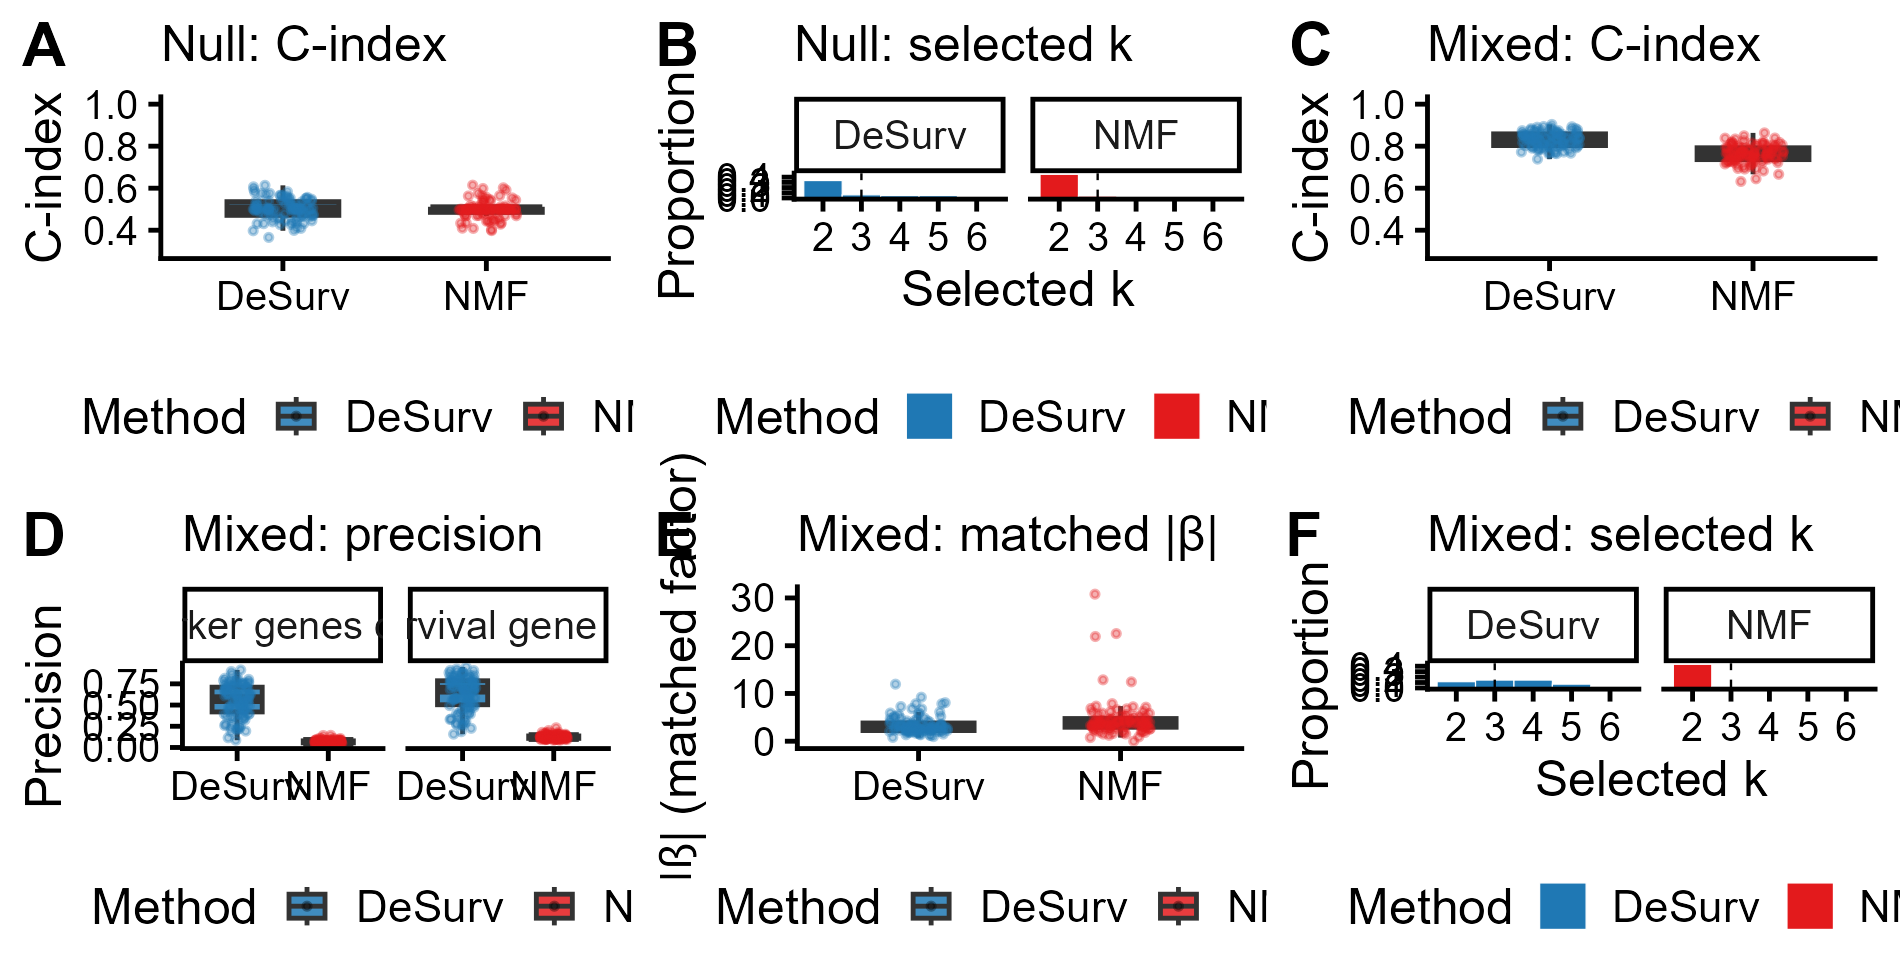
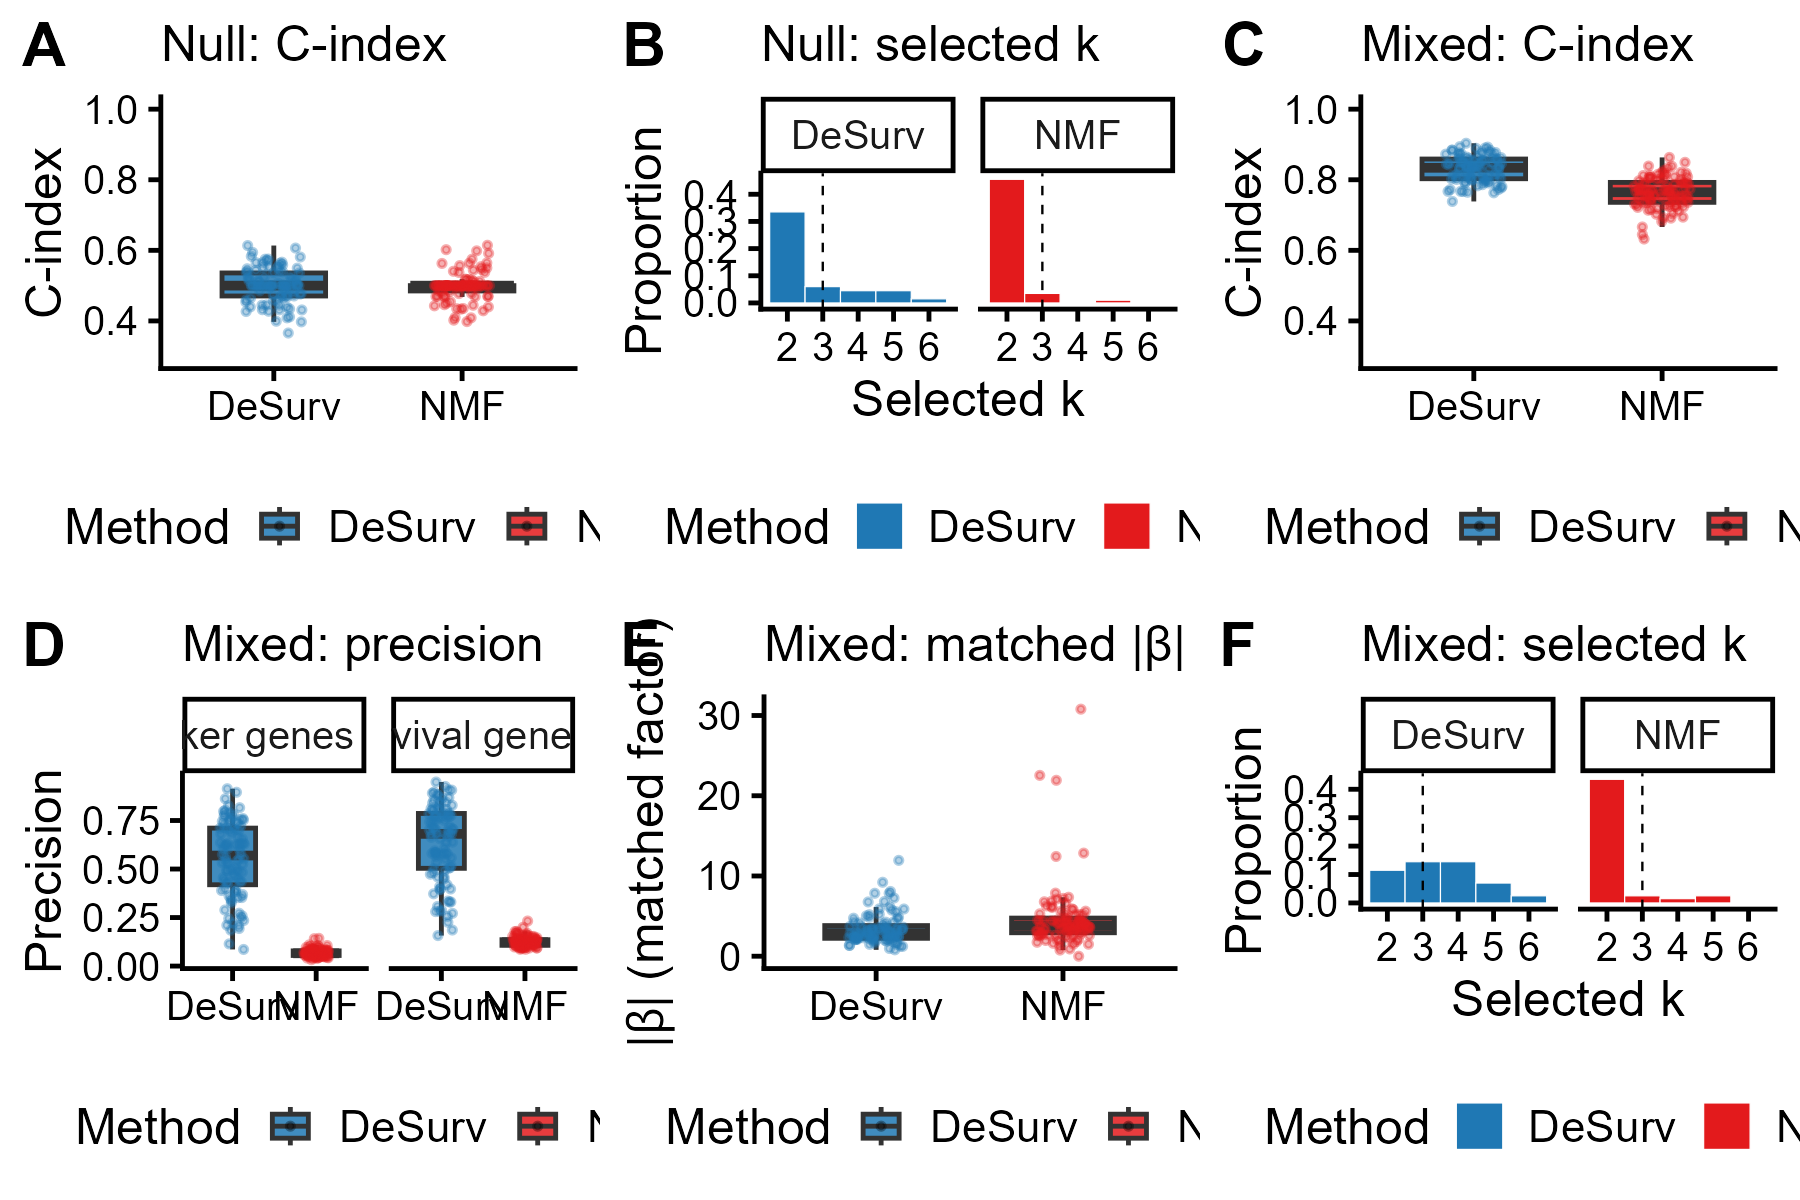
@ Enlarge backup figures on slides 27/28/30/32
- null/mixed (27): taller 2x3 layout (aspect 0.52 -> 0.67)
- NMF diagnostics (28): figure-on-top with bullets below, much larger
- NMF k=7 heatmap (30): widen figure column to 52%
- subtype composition (32): taller bars (aspect 0.71 -> 0.80)

All kept under ~1820 px intrinsic width to avoid reveal mis-scaling.

@

diff --git a/defense.html b/defense.html
@@ -637,17 +637,11 @@ Amber M. Young
 </section>
 <section id="backup-nmf-rank-selection-heuristics-disagree" class="slide level2">
 <h2>Backup · NMF rank-selection heuristics disagree</h2>
-<div class="columns">
-<div class="column" style="width:68%;">
-<p><img data-src="figures/defense/bk_nmf_diag.png" style="width:100.0%"></p>
-</div><div class="column" style="width:32%;">
-<ul>
-<li>Reconstruction residuals decrease smoothly — <strong>no elbow</strong></li>
-<li>Cophenetic correlation fluctuates — <strong>no clear transition</strong></li>
-<li>Silhouette favors very low <span class="math inline">\(k\)</span></li>
-<li>The three criteria <strong>disagree</strong> → motivates survival-supervised selection</li>
+
+<img data-src="figures/defense/bk_nmf_diag.png" style="width:84.0%" class="r-stretch"><ul>
+<li>Residuals decrease smoothly (<strong>no elbow</strong>); cophenetic correlation fluctuates (<strong>no clear transition</strong>); silhouette favors very low <span class="math inline">\(k\)</span></li>
+<li>The three criteria <strong>disagree</strong> on the same data → motivates survival-supervised selection</li>
 </ul>
-</div></div>
 </section>
 <section id="backup-c-index-across-factorization-rank" class="slide level2">
 <h2>Backup · C-index across factorization rank</h2>
@@ -665,9 +659,9 @@ Amber M. Young
 <section id="backup-nmf-at-its-own-ranks-k-5-7" class="slide level2">
 <h2>Backup · NMF at its own ranks (k = 5, 7)</h2>
 <div class="columns">
-<div class="column" style="width:46%;">
+<div class="column" style="width:52%;">
 <p><img data-src="figures/defense/bk_nmf_k7.png" style="width:100.0%"></p>
-</div><div class="column" style="width:54%;">
+</div><div class="column" style="width:48%;">
 <ul>
 <li>Elbow → <span class="math inline">\(k=5\)</span>; BO with <span class="math inline">\(\alpha=0\)</span> → <span class="math inline">\(k=7\)</span></li>
 <li><span class="math inline">\(k=5\)</span>: re-derives the <span class="math inline">\(k=3\)</span> core + Exocrine-like and restCAF <strong>variance</strong> factors (no new prognostic content)</li>
